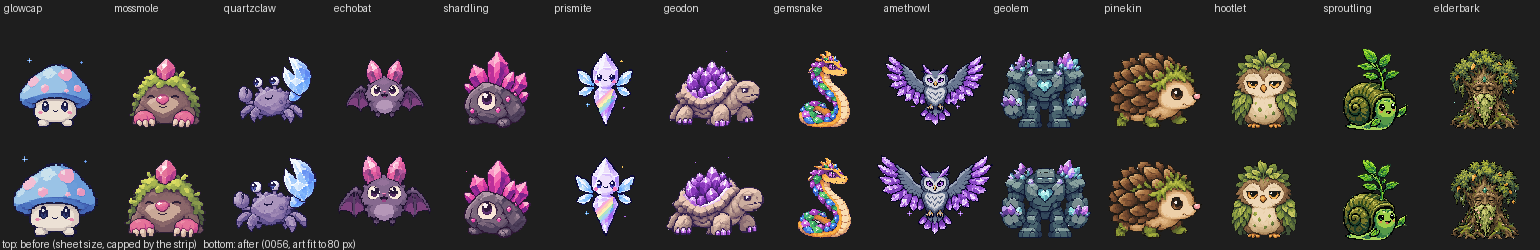
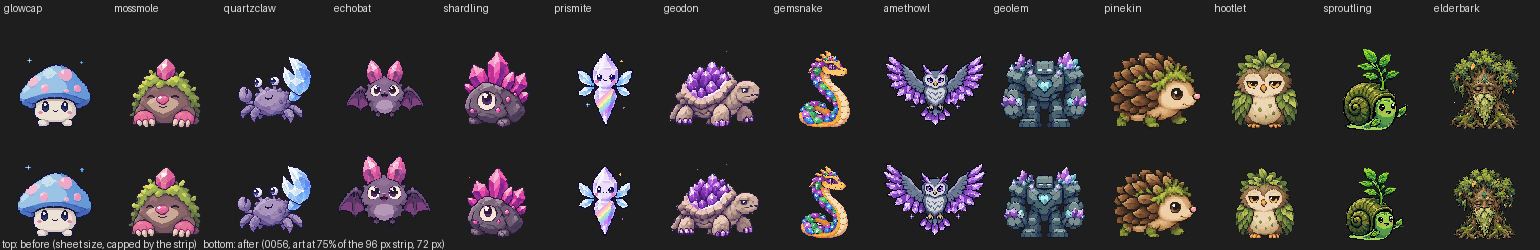
P5-66: checked in the Code tab, 0056 accepted, task done

diff --git a/docs/ROADMAP.md b/docs/ROADMAP.md
@@ -1019,15 +1019,15 @@ Goal: users keep or remove built-ins and add, edit, and remove their own biomes 
   - [x] Checked in the Code tab: a catch lingers about as long as a run before the slide back.
   - [x] 0055 is accepted; `claude plugin test ./plugin`, `claude plugin validate ./plugin --strict` and `node tools/check-tracking.mjs` pass.
 
-#### [ ] P5-66 — Desktop Modsters fit a set height
+#### [x] P5-66 — Desktop Modsters fit a set height
 - **Depends on:** P5-63
 - **Size:** M
 - **Goal:** decision 0056: on the Desktop app, each Modster is drawn so the art in its frames reaches a set height on the encounter pane, the collection and the band, instead of at its sheet's own pixel size (0045), so small sheets like most of the Crystal Grotto read clearly. `heightM` stays lore only (asked by @danielpg95, 2026-11-02).
 - **Done when:**
-  - [ ] 0056 is written and accepted, saying the target height, the width cap and what happens to catchers and throws.
+  - [x] 0056 is written and accepted, saying the target height, the width cap and what happens to catchers and throws.
   - [x] The pane, the collection and the band draw a desktop sheet at its fit scale; the band stays within `maxRows`. Render tests cover a small and a large sheet.
-  - [ ] Checked in the Code tab: Grotto and forest Modsters look about the same size, and a catch still lines up.
-  - [ ] `claude plugin test ./plugin`, `claude plugin validate ./plugin --strict` and `node tools/check-tracking.mjs` pass.
+  - [x] Checked in the Code tab: Grotto and forest Modsters look about the same size, and a catch still lines up (by @danielpg95 with 0.1.28, 2026-11-02).
+  - [x] `claude plugin test ./plugin`, `claude plugin validate ./plugin --strict` and `node tools/check-tracking.mjs` pass.
 
 ---
 

diff --git a/docs/sessions/2026-11-02-danielpg95-P5-66.md b/docs/sessions/2026-11-02-danielpg95-P5-66.md
@@ -2,7 +2,7 @@
 
 - **Task:** P5-66 — Desktop Modsters fit a set height
 - **Branch:** `p5-66-desktop-fit-height`
-- **Status at end:** in-review
+- **Status at end:** done
 - **Last commit:** see the P5-66 PR
 
 ## Goal for this session
@@ -19,7 +19,7 @@ The Crystal Grotto Modsters looked small on the desktop pane. Fit every Modster'
 - `render/motion-layout.ts`: the frame only has to fit the strip; the caller keeps the art within `MOTION.artFill`, so clear margins can reach the strip's top.
 - The `add-modster` skill and the desktop preview page show the fitted sizes.
 - Test fixture Sproutling (`desktop-only-forest.ts`) now has a 16×20 block of art in its 32×32 frame.
-- Version 0.1.26. `claude plugin test ./plugin` 1009 pass, `validate --strict` passes, tools tests pass.
+- Version 0.1.28. `claude plugin test ./plugin` 1010 pass, `validate --strict` passes, tools tests pass.
 - Before/after of the pane: `docs/previews/p5-66-fit-height.png`.
 
 ## Decisions made
@@ -34,7 +34,7 @@ The Crystal Grotto Modsters looked small on the desktop pane. Fit every Modster'
 
 ## Next steps
 
-1. Install 0.1.28 in the Code tab: check Grotto and forest Modsters look the same size in the pane, the collection and the band, and that a catch lines up; then accept 0056 and close P5-66.
+1. None: @danielpg95 checked 0.1.28 in the Code tab (band, catch, collection), accepted 0056, and P5-66 is done.
 
 ## Open questions
 

diff --git a/docs/WORKBOARD.md b/docs/WORKBOARD.md
@@ -19,7 +19,6 @@ this file lists only tasks someone has claimed.
 | P5-34 | @victor-aguilars | in-progress | p5-34-readme-install | 2026-10-22 | 2026-10-22 | Hand check on a second computer: fresh install of 0.1.0 from the marketplace, then tick the items (README merged in #149) |
 | P5-36 | @victor-aguilars | in-review | p5-36-in-game-settings | 2026-10-22 | 2026-10-22 | Merge #155, #156, then the P5-36 PR; then close the task |
 | P5-64 | @victor-aguilars | in-review | p5-64-desktop-collection-cards | 2026-11-01 | 2026-11-01 | Get the P5-64 PR reviewed; @danielpg95 accepts or reworks 0054, then tick the last item and close the task |
-| P5-66 | @danielpg95 | in-progress | p5-66-desktop-fit-height | 2026-11-02 | 2026-11-02 | Install 0.1.28 in the Code tab: check Grotto and forest Modsters look the same size and a catch lines up; accept 0056 |
 
 ## Up next
 

diff --git a/docs/decisions/README.md b/docs/decisions/README.md
@@ -69,4 +69,4 @@ settled questions and avoid making assumptions about open ones.
 | [0053](0053-desktop-catch-leaves-as-catcher.md) | On desktop, a caught Modster leaves as its catcher fading, with no extra cue | Accepted (caught timing amended by 0055) |
 | [0054](0054-desktop-collection-cards.md) | On desktop, the collection pane fits the dock: cards, tiles and controls under what they change | Proposed (extends 0040 with Reset to defaults) |
 | [0055](0055-desktop-caught-hold.md) | On desktop, a caught catcher holds before it fades | Accepted |
-| [0056](0056-desktop-fit-height.md) | On desktop, every Modster's art fits a set height | Proposed |
+| [0056](0056-desktop-fit-height.md) | On desktop, every Modster's art fits a set height | Accepted |

diff --git a/docs/decisions/0056-desktop-fit-height.md b/docs/decisions/0056-desktop-fit-height.md
@@ -1,8 +1,8 @@
 # 0056 — On desktop, every Modster's art fits a set height
 
-- **Status:** Proposed — settled by P5-66 / @danielpg95
+- **Status:** Accepted
 - **Date:** 2026-11-02
-- **Proposed by:** @danielpg95
+- **Decided by:** @danielpg95
 - **Amends:** 0045
 
 ## Context
